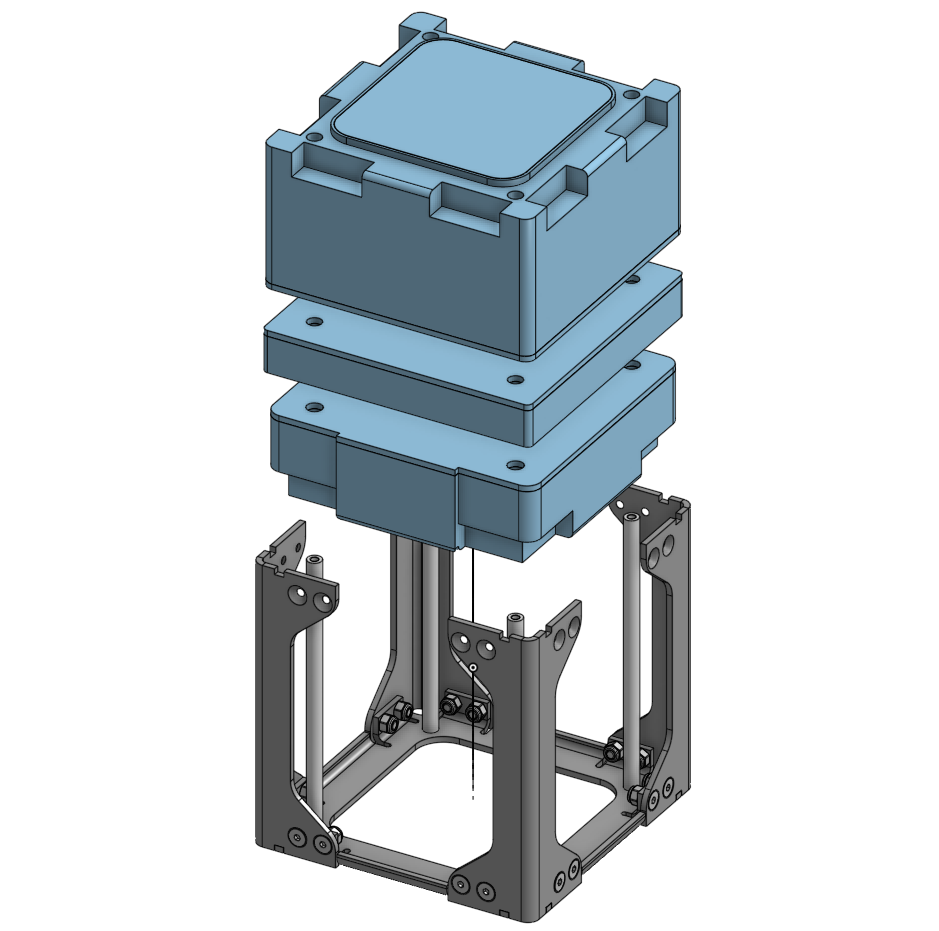
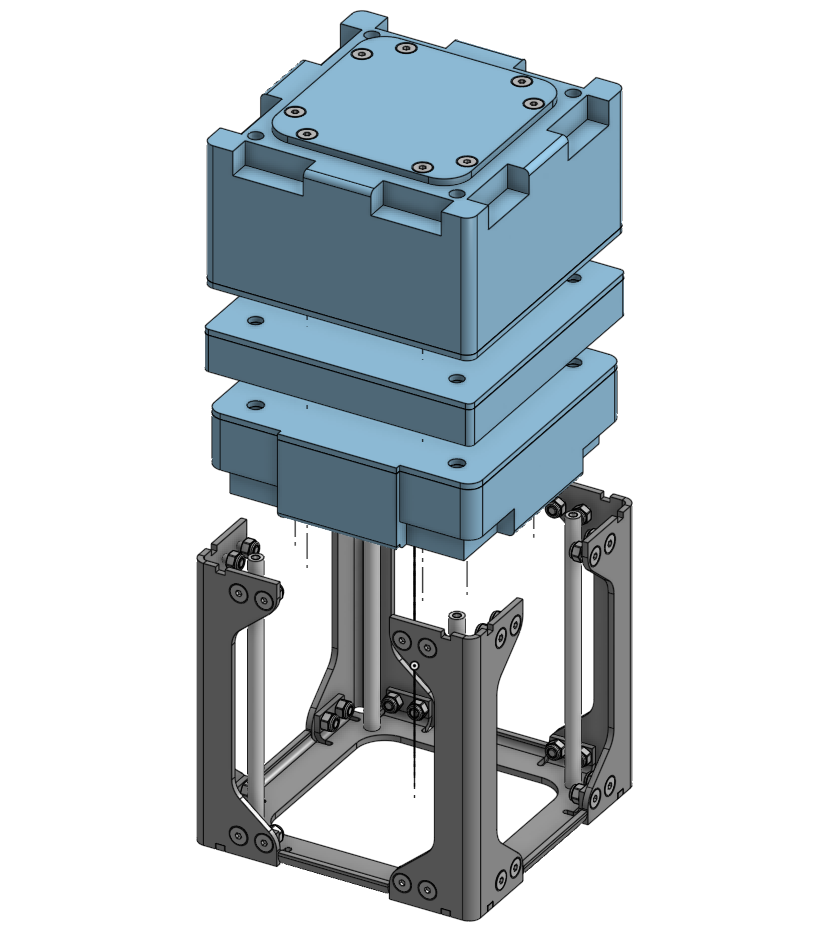
Agrega imagen colocacion de muestras
actualiza imagenes estructura

Changed region(s): [[0.2119, 0.0, 0.7869, 0.9968], [0.454, 0.3426, 0.5145, 0.3738]]

diff --git a/PDR/chapter/5-mision.tex b/PDR/chapter/5-mision.tex
@@ -598,6 +598,13 @@ durante el proceso de ingeniera del CubeSat.
       el subsistema de carga util, y por donde se carguen las muestras a analizar. Esta tapa va a
       ser fijada con la tornilleria correspondiente
 
+      \begin{figure}[H]
+        \centering
+        \includegraphics[width=0.4\textwidth]{image/structure/muestras.png}
+        \caption{Colocacion de muestas}
+        \label{fig:structure-muestra}
+      \end{figure}
+
   \subsection{Criterios de Margenes}
     Para en analisis de presupuestos preliminares establecimos los margenes considerando las
     condiciones mas desfavorables
